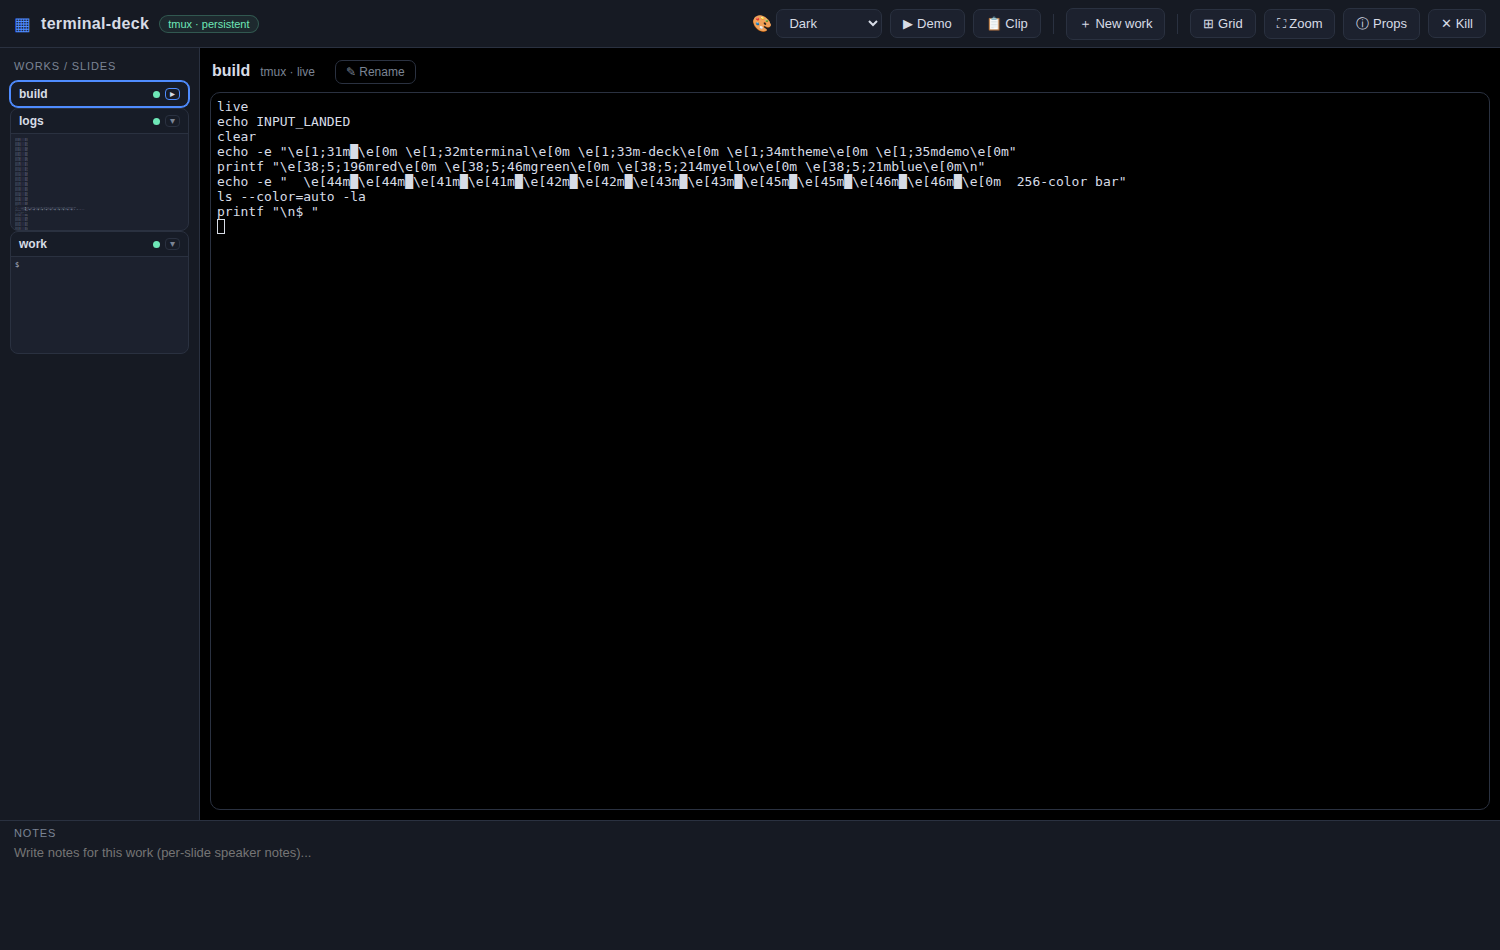
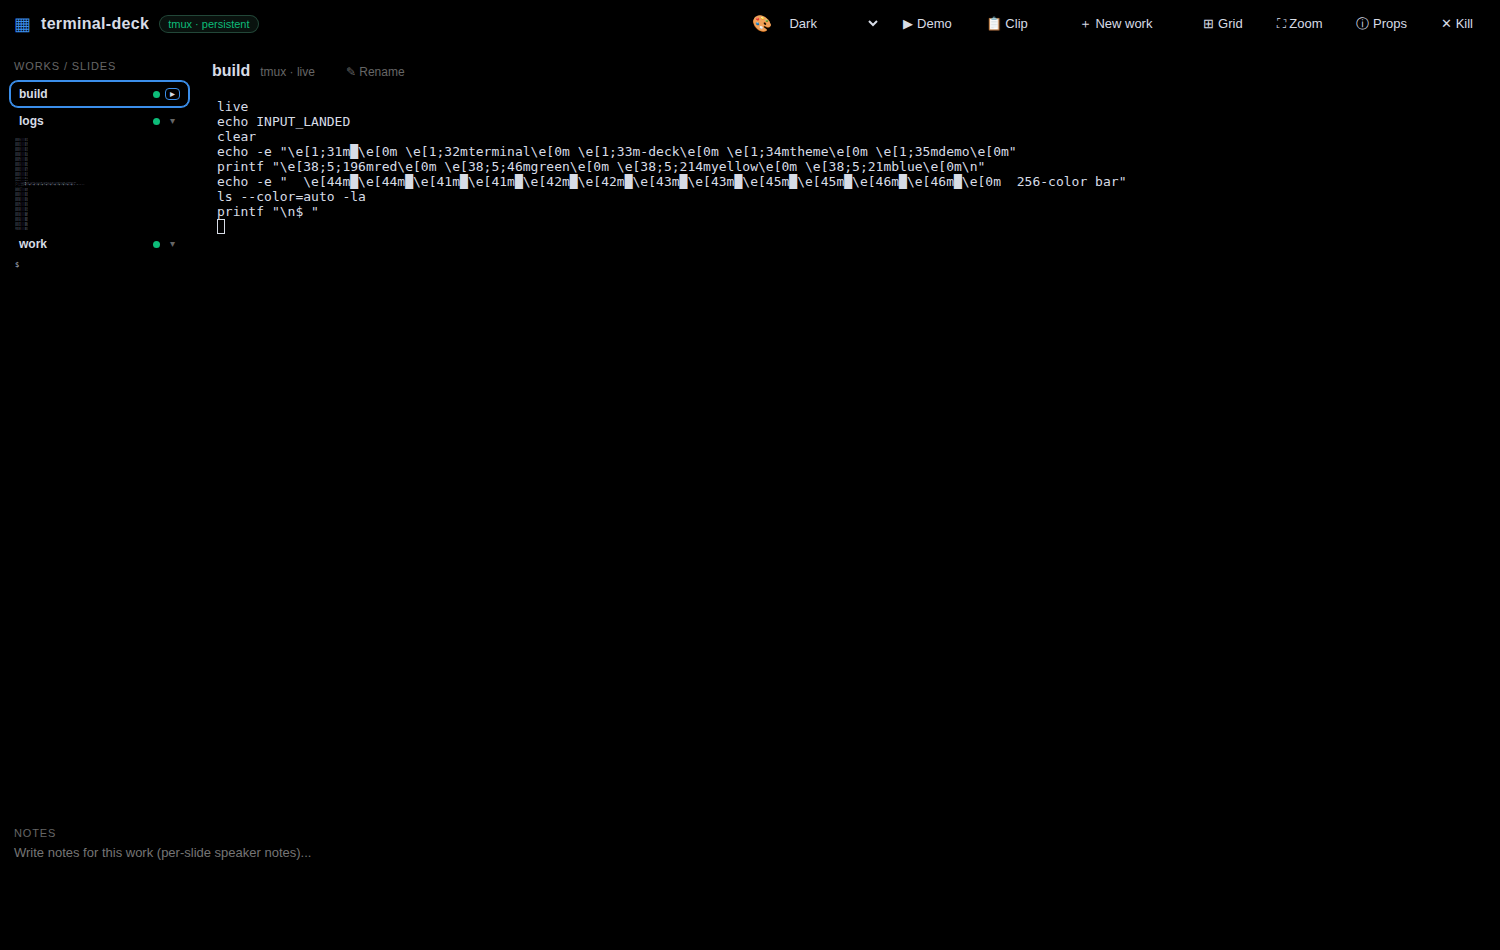
feat(ui): drag-to-reorder thumbnails + theme-aware scrollbars
- thumbnails: HTML5 drag-and-drop reordering; order persisted to localStorage
  and restored on load (new sessions append at the end); boot auto-selects the
  first card in DOM order
- scrollbars: styled via scrollbar-color (Firefox) + ::-webkit-scrollbar
  (Chrome/Safari) from the theme palette
- applyThemeCss now drives the app chrome (--bg/--panel/--border/--text/--muted/
  --accent) from the selected theme, so panels and scrollbars follow the theme
  instead of staying default dark

Verified: reorder persists across reload; eyeGuard/dracula themes change panel
+ scrollbar colors; full UI harness passes.

Changed region(s): [[0.0, 0.0, 1.0, 1.0]]

diff --git a/public/app.js b/public/app.js
@@ -196,7 +196,31 @@ $themeSelect.addEventListener('change', () => {
   applyThemeCss(state.theme);
 });
 function applyThemeCss(theme) {
-  document.body.style.background = (THEMES[theme] || THEMES.dark).background;
+  const t = THEMES[theme] || THEMES.dark;
+  document.body.style.background = t.background;
+  // Drive the app chrome + scrollbars from the theme palette so panels,
+  // borders and scrollbars follow the selected theme (not just the terminal).
+  const root = document.documentElement.style;
+  // derive a panel/border palette from the theme background (simple shade)
+  const bg = t.background;
+  root.setProperty('--bg', bg);
+  root.setProperty('--panel', shade(bg, 1.06));
+  root.setProperty('--panel-2', shade(bg, 1.12));
+  root.setProperty('--border', shade(bg, 1.28));
+  root.setProperty('--text', t.foreground);
+  root.setProperty('--muted', t.brightBlack || '#7b8494');
+  root.setProperty('--accent', t.brightBlue || t.blue || '#4f8cff');
+  root.setProperty('--accent-2', t.green || '#6ee7b7');
+}
+// blend a hex color toward white/black by a factor (1 = unchanged, >1 lighter)
+function shade(hex, f) {
+  const m = /^#([0-9a-f]{6})$/i.exec(hex);
+  if (!m) return hex;
+  const n = parseInt(m[1], 16);
+  const r = Math.min(255, Math.round(((n >> 16) & 255) * f));
+  const g = Math.min(255, Math.round(((n >> 8) & 255) * f));
+  const b = Math.min(255, Math.round((n & 255) * f));
+  return '#' + ((1 << 24) | (r << 16) | (g << 8) | b).toString(16).slice(1);
 }
 
 // ---------- clipboard popover ----------
@@ -252,12 +276,19 @@ async function refreshSessions() {
   for (const s of j.sessions) {
     if (!cardsEl.has(s.name)) addCard(s.name);
   }
+  // re-apply the user's saved thumbnail order (new sessions go last)
+  const order = loadCardOrder(names);
+  for (let i = order.length - 1; i >= 0; i--) {
+    const c = cardsEl.get(order[i]);
+    if (c) $cards.insertBefore(c.el, $cards.firstChild);
+  }
 }
 
 function addCard(name) {
   const el = document.createElement('div');
   el.className = 'card';
   el.dataset.name = name;
+  el.draggable = true;
   el.innerHTML = `
     <div class="card-head"><span class="card-name"></span>
       <span class="card-controls"><span class="dot live"></span>
@@ -277,11 +308,58 @@ function addCard(name) {
     collapseBtn.textContent = collapsed ? '▸' : '▾';
     collapseBtn.title = collapsed ? 'Expand preview' : 'Collapse preview';
   });
+  // drag to reorder thumbnails (order persisted to localStorage)
+  el.addEventListener('dragstart', (e) => {
+    e.dataTransfer.setData('text/plain', name);
+    e.dataTransfer.effectAllowed = 'move';
+    el.classList.add('dragging');
+  });
+  el.addEventListener('dragend', () => el.classList.remove('dragging'));
+  el.addEventListener('dragover', (e) => {
+    e.preventDefault();
+    e.dataTransfer.dropEffect = 'move';
+    const from = e.dataTransfer.getData('text/plain');
+    if (from && from !== name) el.classList.add('drop-target');
+  });
+  el.addEventListener('dragleave', () => el.classList.remove('drop-target'));
+  el.addEventListener('drop', (e) => {
+    e.preventDefault();
+    el.classList.remove('drop-target');
+    const from = e.dataTransfer.getData('text/plain');
+    if (!from || from === name) return;
+    reorderCards(from, name);
+  });
   $cards.appendChild(el);
   const card = { el, preview, dot: el.querySelector('.dot'), collapseBtn };
   cardsEl.set(name, card);
   // start live snapshot loop for this session
   pollSnapshot(name);
+}
+
+// move the card named `from` to directly before the card named `to`
+function reorderCards(from, to) {
+  const fromEl = cardsEl.get(from)?.el;
+  const toEl = cardsEl.get(to)?.el;
+  if (!fromEl || !toEl) return;
+  $cards.insertBefore(fromEl, toEl);
+  persistCardOrder();
+}
+
+function persistCardOrder() {
+  const order = [...$cards.children].map((c) => c.dataset.name);
+  try { localStorage.setItem('deck-card-order', JSON.stringify(order)); } catch {}
+}
+
+function loadCardOrder(names) {
+  try {
+    const saved = JSON.parse(localStorage.getItem('deck-card-order') || '[]');
+    if (!Array.isArray(saved) || !saved.length) return names;
+    // keep saved order for known sessions, append any new ones at the end
+    const known = new Set(names);
+    const ordered = saved.filter((n) => known.has(n));
+    for (const n of names) if (!ordered.includes(n)) ordered.push(n);
+    return ordered;
+  } catch { return names; }
 }
 
 function sanitizeSnap(s) {
@@ -537,6 +615,6 @@ $btnZoom.addEventListener('click', () => {
   connect();
   applyThemeCss(state.theme);
   await refreshSessions();
-  // auto-select first real session if any
-  if (!state.active && cardsEl.size) setActive(cardsEl.keys().next().value);
+  // auto-select first real session if any (DOM order = saved user order)
+  if (!state.active && $cards.firstElementChild) setActive($cards.firstElementChild.dataset.name);
 })();

diff --git a/public/style.css b/public/style.css
@@ -22,6 +22,24 @@
 
 * { box-sizing: border-box; }
 html, body { height: 100%; }
+
+/* ---- theme-aware scrollbars ---- */
+/* Firefox: two-color scrollbar via CSS vars (updates with the theme) */
+* {
+  scrollbar-width: thin;
+  scrollbar-color: var(--border) transparent;
+}
+/* Chrome / Safari / Edge: custom thumb + track from the theme palette */
+*::-webkit-scrollbar { width: 10px; height: 10px; }
+*::-webkit-scrollbar-track { background: transparent; }
+*::-webkit-scrollbar-thumb {
+  background: var(--border);
+  border-radius: 6px;
+  border: 2px solid var(--panel);
+}
+*::-webkit-scrollbar-thumb:hover { background: var(--accent); }
+*::-webkit-scrollbar-corner { background: transparent; }
+
 body {
   margin: 0;
   font-family: -apple-system, "Segoe UI", Roboto, Helvetica, Arial, sans-serif;
@@ -129,6 +147,10 @@ button.active { border-color: var(--accent); color: var(--accent); }
 }
 .card:hover { border-color: var(--accent); transform: translateY(-1px); }
 .card.active { border-color: var(--accent); box-shadow: 0 0 0 1px var(--accent); }
+/* drag-to-reorder states */
+.card.dragging { opacity: .45; border-style: dashed; }
+.card.drop-target { border-color: var(--accent); box-shadow: 0 0 0 1px var(--accent) inset; }
+.card .card-head { cursor: grab; }
 .card-head {
   display: flex; align-items: center; justify-content: space-between;
   padding: 5px 8px; font-size: 12px; font-weight: 600;
